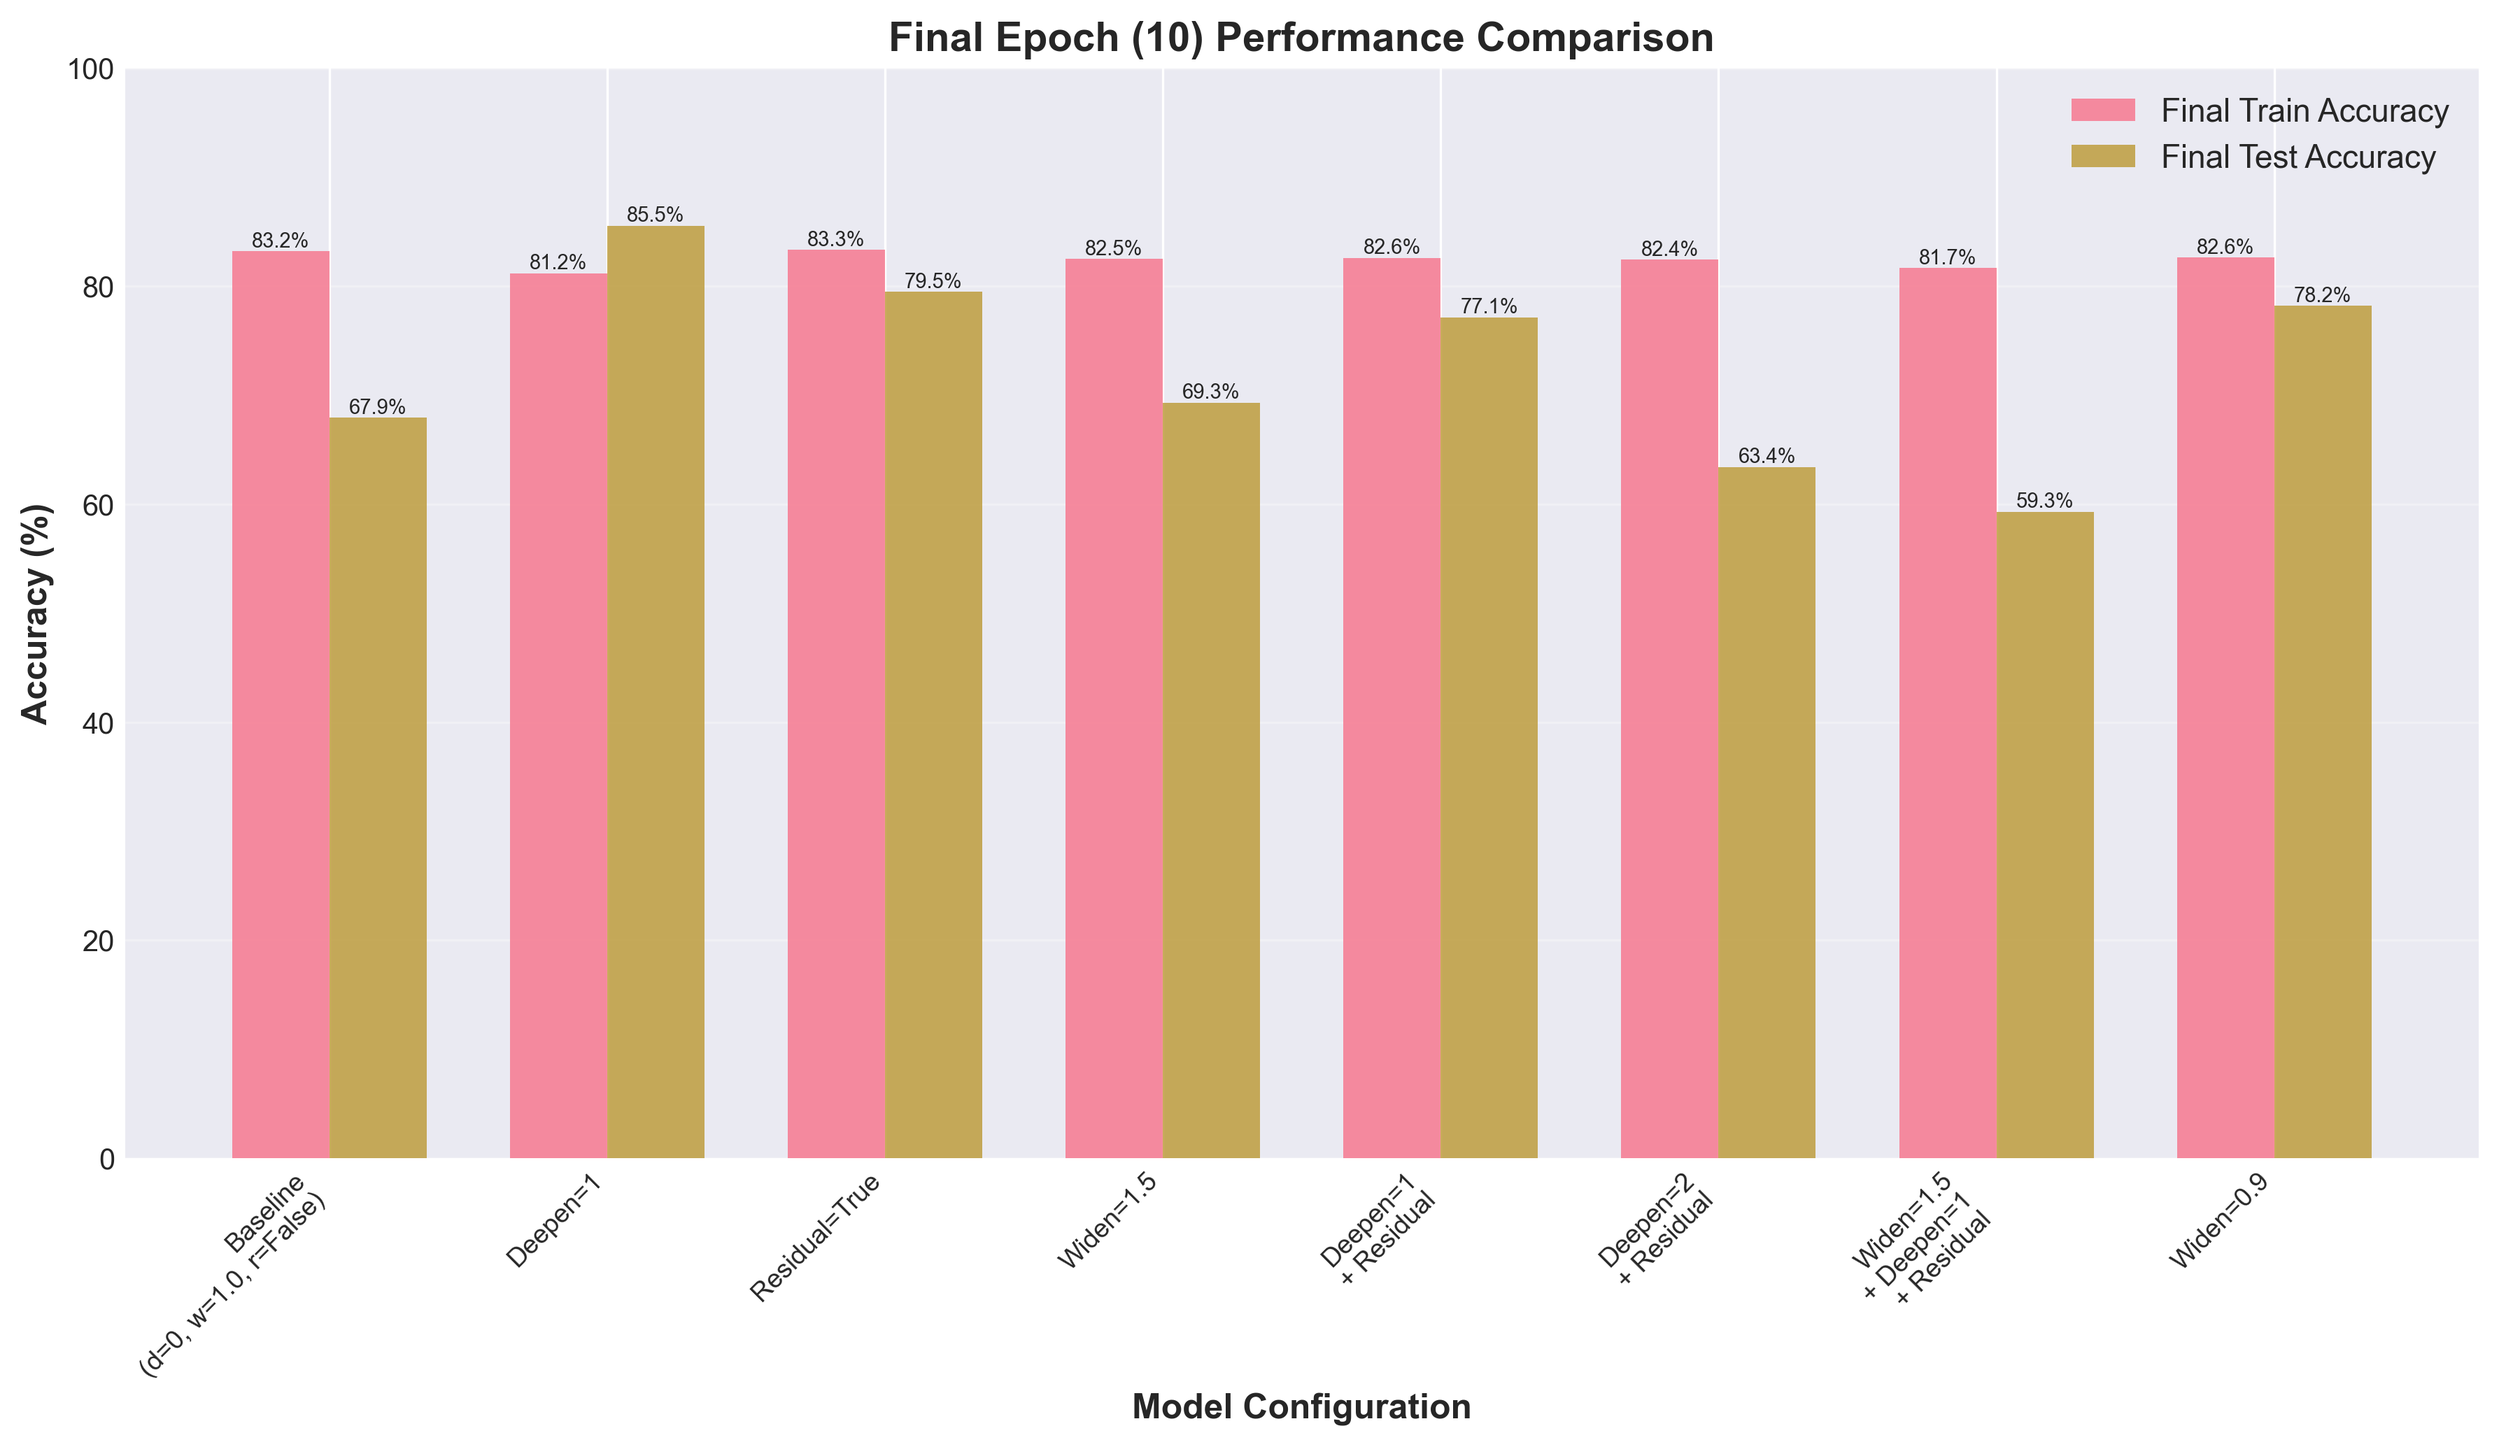
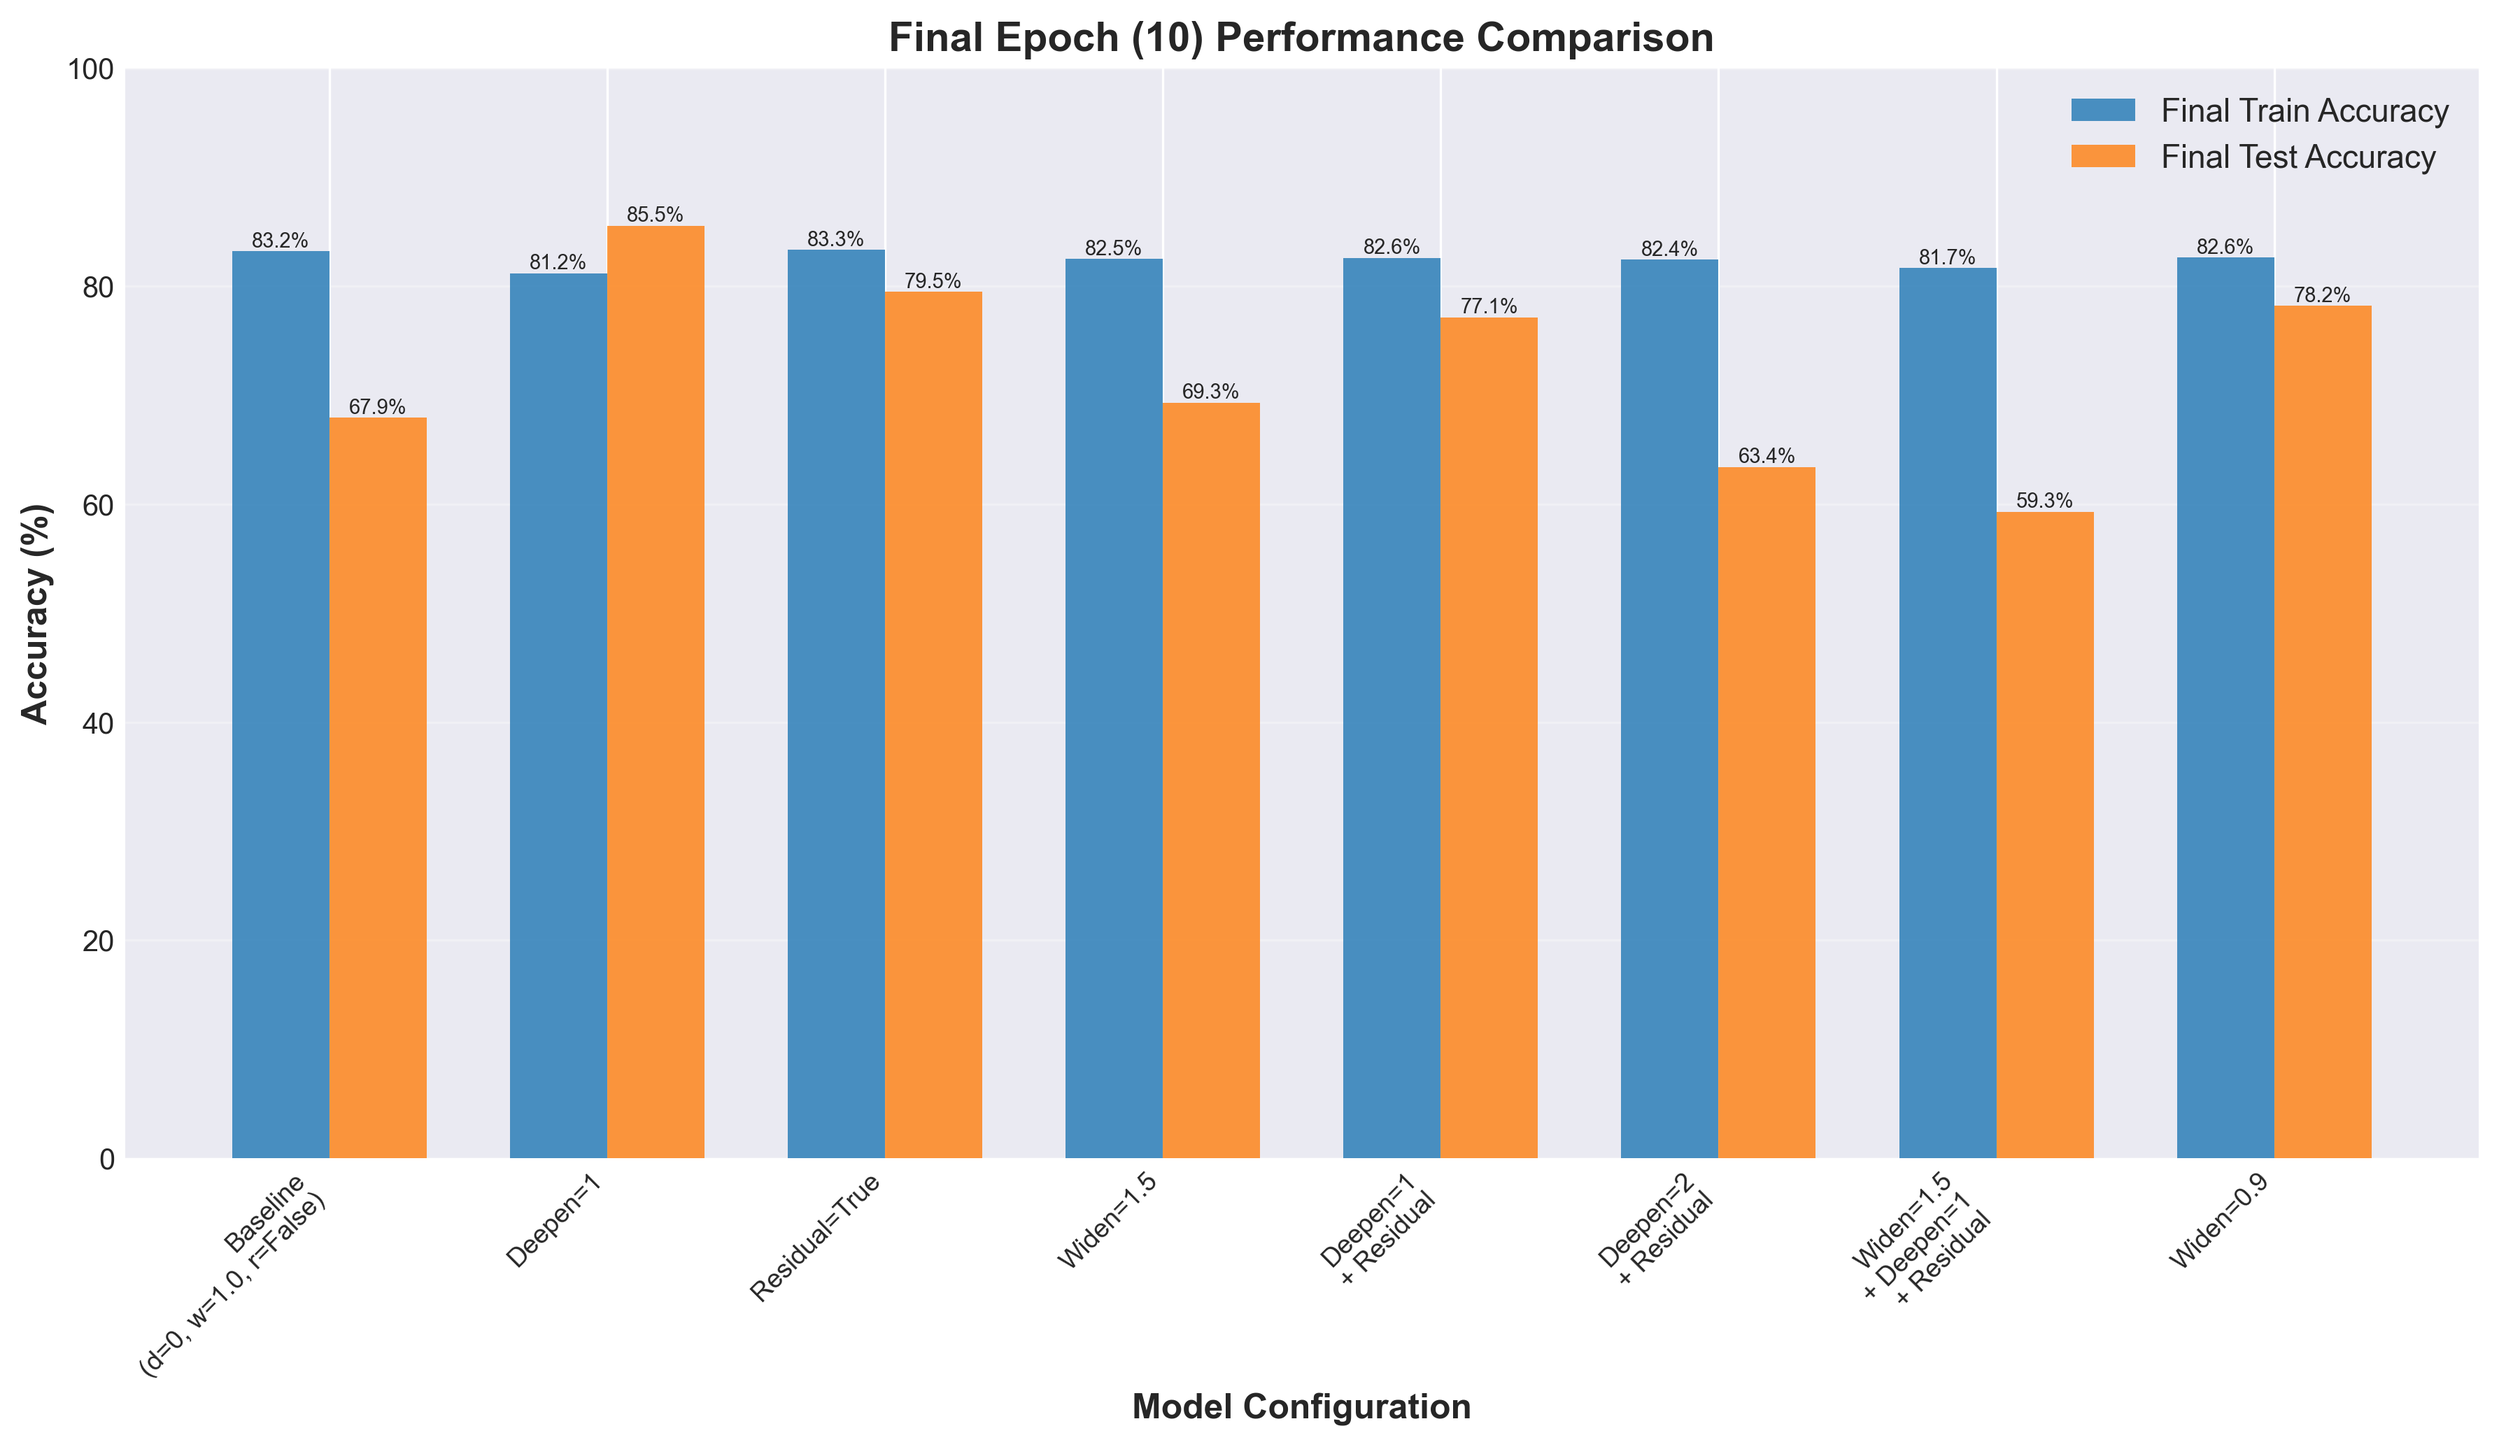
Add distinct color palette for model visualization in results

diff --git a/Pointnet_Pointnet2_pytorch/visualize_results.py b/Pointnet_Pointnet2_pytorch/visualize_results.py
@@ -6,7 +6,18 @@ from pathlib import Path
 
 # Set style
 plt.style.use('seaborn-v0_8-darkgrid')
-sns.set_palette("husl")
+
+# Define unique colors for each model (8 distinct colors with high contrast)
+MODEL_COLORS = {
+    'Baseline\n(d=0, w=1.0, r=False)': '#e74c3c',  # Bright Red
+    'Deepen=1': '#ff8c00',  # Dark Orange
+    'Residual=True': '#2ecc71',  # Bright Green
+    'Widen=1.5': '#000000',  # Black
+    'Deepen=1\n+ Residual': '#3498db',  # Sky Blue
+    'Deepen=2\n+ Residual': '#9b59b6',  # Purple
+    'Widen=1.5\n+ Deepen=1\n+ Residual': '#e91e63',  # Hot Pink
+    'Widen=0.9': '#f4d03f',  # Golden Yellow (very distinct from orange)
+}
 
 # Define the training data from logs
 training_data = {
@@ -100,8 +111,9 @@ output_dir.mkdir(exist_ok=True)
 fig, (ax1, ax2) = plt.subplots(1, 2, figsize=(16, 6))
 
 for model_name, data in training_data.items():
-    ax1.plot(data['epochs'], data['train_acc'], marker='o', label=model_name, linewidth=2, markersize=4)
-    ax2.plot(data['epochs'], data['test_acc'], marker='s', label=model_name, linewidth=2, markersize=4)
+    color = MODEL_COLORS[model_name]
+    ax1.plot(data['epochs'], data['train_acc'], marker='o', label=model_name, linewidth=2, markersize=4, color=color)
+    ax2.plot(data['epochs'], data['test_acc'], marker='s', label=model_name, linewidth=2, markersize=4, color=color)
 
 ax1.set_xlabel('Epoch', fontsize=12, fontweight='bold')
 ax1.set_ylabel('Training Accuracy', fontsize=12, fontweight='bold')
@@ -126,7 +138,8 @@ plt.close()
 fig, ax = plt.subplots(figsize=(12, 6))
 
 for model_name, data in training_data.items():
-    ax.plot(data['epochs'], data['test_class_acc'], marker='D', label=model_name, linewidth=2, markersize=4)
+    color = MODEL_COLORS[model_name]
+    ax.plot(data['epochs'], data['test_class_acc'], marker='D', label=model_name, linewidth=2, markersize=4, color=color)
 
 ax.set_xlabel('Epoch', fontsize=12, fontweight='bold')
 ax.set_ylabel('Test Class Accuracy', fontsize=12, fontweight='bold')
@@ -196,10 +209,10 @@ plt.close()
 # 5. Accuracy vs Training Time Scatter Plot
 fig, ax = plt.subplots(figsize=(10, 7))
 
-colors = sns.color_palette("husl", len(model_names))
-for i, (model_name, data) in enumerate(training_data.items()):
+for model_name, data in training_data.items():
+    color = MODEL_COLORS[model_name]
     ax.scatter(data['total_time'], data['best_test_acc']*100, 
-               s=200, alpha=0.7, color=colors[i], edgecolors='black', linewidth=1.5,
+               s=200, alpha=0.7, color=color, edgecolors='black', linewidth=1.5,
                label=model_name)
 
 ax.set_xlabel('Training Time (minutes)', fontsize=12, fontweight='bold')
@@ -260,8 +273,9 @@ plt.close()
 fig, ax = plt.subplots(figsize=(12, 6))
 
 for model_name, data in training_data.items():
+    color = MODEL_COLORS[model_name]
     train_test_gap = np.array(data['train_acc']) - np.array(data['test_acc'])
-    ax.plot(data['epochs'], train_test_gap, marker='o', label=model_name, linewidth=2, markersize=4)
+    ax.plot(data['epochs'], train_test_gap, marker='o', label=model_name, linewidth=2, markersize=4, color=color)
 
 ax.set_xlabel('Epoch', fontsize=12, fontweight='bold')
 ax.set_ylabel('Training - Test Accuracy Gap', fontsize=12, fontweight='bold')
